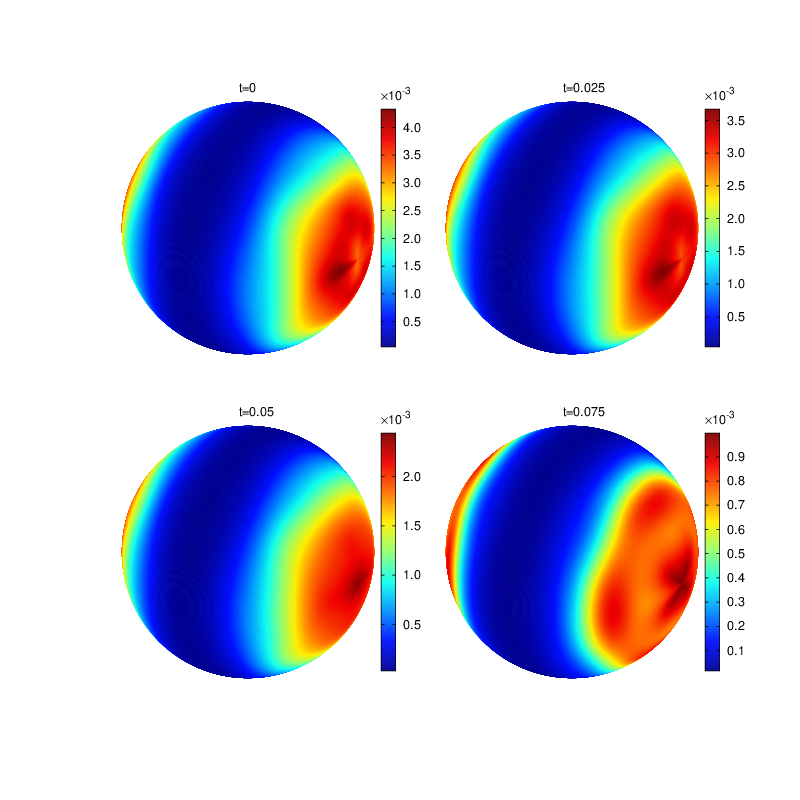
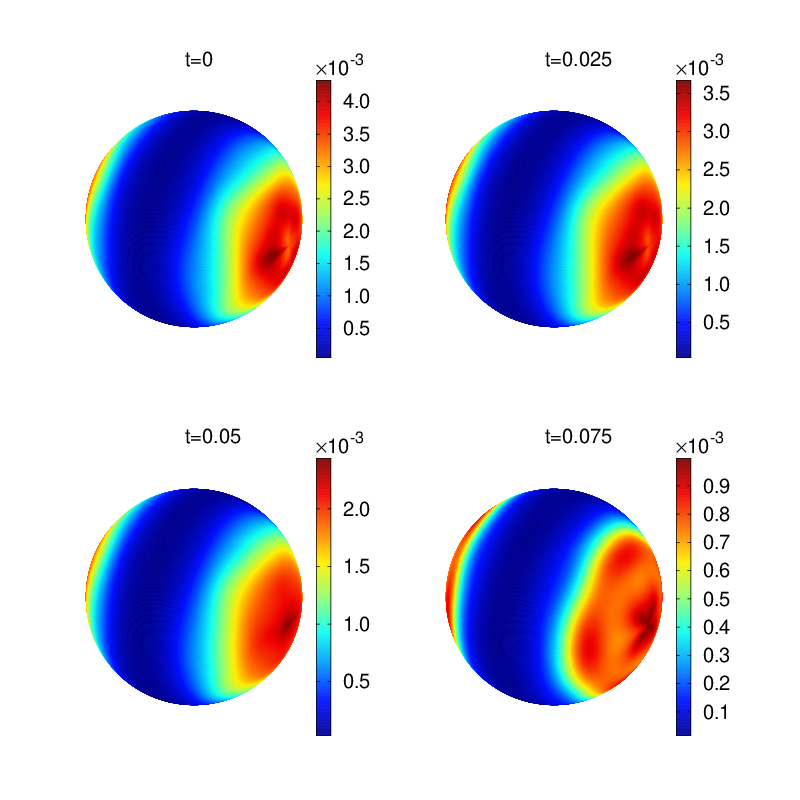
Changed size of labels in boundary plots and added energy density relative to Schwarzschild-AdS

diff --git a/3p1.tex b/3p1.tex
@@ -332,7 +332,7 @@ We compute this by first computing the quasi-local stress-energy tensor $^{(q)}T
 where $\Theta_{\alpha\beta}=-\gamma^\alpha_{\mu}\gamma^\beta_\nu\nabla_{(\alpha}S_{\beta)}$ is the extrinsic curvature of $\partial M_q$, $\gamma_{\mu\nu}=g_{\mu\nu}-S_\mu S_\nu$ is the induced metric on $\partial M_q$, $S^\mu$ is the spacelike, outward pointing unit vector normal to $\partial M_q$ and $G_{\mu\nu}$ is the Einstein tensor defined on $\partial M_q$. (Notice the different minus sign in the last term w.r.t. to  [CITE hep-th/9902121] ). We will be interested in the value of $^{(q)}T_{\mu\nu}$ for $q$ close to 0, i.e. near the boundary.
 Restricting to the 3 coordinates on the AdS boundary at $\rho=1$, i.e. $x^i=(t,\theta,\phi)$, this enables us to compute the boundary stress-energy tensor as
 \begin{equation}
-<T_{ij}>_{CFT}=\lim_{q\to0}\frac{1}{q}  \;^{(q)}T_{ij}.
+\langle T_{ij}\rangle_{CFT}=\lim_{q\to0}\frac{1}{q}  \;^{(q)}T_{ij}.
 \end{equation}
 
 From $^{(q)}T_{\mu\nu}$ we also compute the AdS mass as follows [CITE hep-th/9902121]. At each time $t$ of evolution, we take a spacelike hypersurface $\Sigma$ in $\partial M_q$, with induced 3-metric $\sigma_{\mu\nu}=\Sigma_{\mu\nu}-u_\mu u_\nu$, where $u^\mu$ is the future pointing unit vector normal to $\Sigma$ in $\partial M_q$, lapse $N$ and shift $N^i$. The AdS mass is
@@ -343,21 +343,21 @@ M_{AdS}=\lim_{q\to0}\int_\Sigma d\theta d\phi \sqrt{\sigma} N ( ^{(q)}T_{\mu\nu}
 We display these quantities in terms of the barred metric variables in spherical coordinates $\bar{g}_{\alpha\beta}$, which are defined similarly to the definition of Cartesian barred metric variables $\bar{g}_{\mu\nu}$ in Section~\ref{sec:numerical_scheme}: we consider the deviation from pure AdS in spherical coordinates, $h_{\alpha\beta}=g_{\alpha\beta}-\bar{g}_{\alpha\beta}$, stripped of as many factors of $(1-\rho^2)$ as necessary to make their fall off near the boundary linear in $q$. Notice that $\bar{g}_{\alpha\beta}$ and $\bar{g}_{\mu\nu}$ are not in general components of the same tensor, therefore the usual transformation between tensor components in different sets of coordinates cannot be applied. The correct transformation can be easily deduced from \eref{eq:sphbouncondh} and \eref{eq:carbouncondh}: $\bar{g}_{\rho\alpha}=\frac{1}{(1-\rho^2)}\frac{\partial x^\mu}{\partial \rho}\frac{\partial x^\nu}{\partial x^\alpha}\bar{g}_{\mu\nu}$ if $\alpha\neq\rho$, $\bar{g}_{\alpha\beta}=\frac{\partial x^\mu}{\partial x^\alpha}\frac{\partial x^\nu}{\partial x^\beta}\bar{g}_{\mu\nu}$ otherwise.
 In terms of the leading order coefficient of $\bar{g}_{\alpha\beta}$, we obtain
 \begin{eqnarray}
-<T_{tt}>_{CFT}&=&\frac{1}{16\pi} \biggl(2\bar{g}_{(1)\rho\rho}+3\bar{g}_{(1)\theta\theta}+3\frac{\bar{g}_{(1)\phi\phi}}{\sin^2\theta}\biggr) \nonumber \\
-<T_{t\theta}>_{CFT}&=&\frac{3}{16\pi}\bar{g}_{(1)t\theta} \nonumber \\
-<T_{t\phi}>_{CFT}&=&\frac{3}{16\pi}\bar{g}_{(1)t\phi} \nonumber \\
-<T_{\theta\theta}>_{CFT}&=&\frac{1}{16\pi} \biggl(3\bar{g}_{(1)tt}-2\bar{g}_{(1)\rho\rho}-3\frac{\bar{g}_{(1)\phi\phi}}{\sin^2\theta}\biggr) \nonumber \\
-<T_{\theta\phi}>_{CFT}&=&\frac{3}{16\pi}\bar{g}_{(1)\theta\phi} \nonumber \\
-<T_{\phi\phi}>_{CFT}&=&\frac{\sin^2\theta}{16\pi} (3\bar{g}_{(1)tt}-2\bar{g}_{(1)\rho\rho}-3\bar{g}_{(1)\theta\theta}) \nonumber \\
+\langle T_{tt}\rangle_{CFT}&=&\frac{1}{16\pi} \biggl(2\bar{g}_{(1)\rho\rho}+3\bar{g}_{(1)\theta\theta}+3\frac{\bar{g}_{(1)\phi\phi}}{\sin^2\theta}\biggr) \nonumber \\
+\langle T_{t\theta}\rangle_{CFT}&=&\frac{3}{16\pi}\bar{g}_{(1)t\theta} \nonumber \\
+\langle T_{t\phi}\rangle_{CFT}&=&\frac{3}{16\pi}\bar{g}_{(1)t\phi} \nonumber \\
+\langle T_{\theta\theta}\rangle_{CFT}&=&\frac{1}{16\pi} \biggl(3\bar{g}_{(1)tt}-2\bar{g}_{(1)\rho\rho}-3\frac{\bar{g}_{(1)\phi\phi}}{\sin^2\theta}\biggr) \nonumber \\
+\langle T_{\theta\phi}\rangle_{CFT}&=&\frac{3}{16\pi}\bar{g}_{(1)\theta\phi} \nonumber \\
+\langle T_{\phi\phi}\rangle_{CFT}&=&\frac{\sin^2\theta}{16\pi} (3\bar{g}_{(1)tt}-2\bar{g}_{(1)\rho\rho}-3\bar{g}_{(1)\theta\theta}) \nonumber \\
 M_{AdS}&=&\int_0^\pi d\theta \int_0^{2\pi}d\phi\frac{\sin\theta}{16\pi} \biggl(2\bar{g}_{(1)\rho\rho}+3\bar{g}_{(1)\theta\theta}+3\frac{\bar{g}_{(1)\phi\phi}}{\sin^2\theta}\biggr) \nonumber. \\
 \end{eqnarray}
 
-One useful quantity to compute is the trace of the stress-energy tensor, $<trT>_{CFT}=\gamma^{ij} <T_{ij}>_{CFT}$, where $\gamma=-dt^2+d\theta^2+\sin^2\theta d\phi^2$ is the conformal metric at the AdS boundary. We obtain
+One useful quantity to compute is the trace of the stress-energy tensor, $\langle trT\rangle_{CFT}=\gamma^{ij} \langle T_{ij}\rangle_{CFT}$, where $\gamma=-dt^2+d\theta^2+\sin^2\theta d\phi^2$ is the conformal metric at the AdS boundary. We obtain
 \begin{equation}
-<trT>_{CFT}=\frac{3}{8\pi}\biggl(\bar{g}_{(1)tt}-\bar{g}_{(1)\rho\rho}-\bar{g}_{(1)\theta\theta}-\frac{\bar{g}_{(1)\phi\phi}}{\sin^2\theta}\biggr)
+\langle trT\rangle_{CFT}=\frac{3}{8\pi}\biggl(\bar{g}_{(1)tt}-\bar{g}_{(1)\rho\rho}-\bar{g}_{(1)\theta\theta}-\frac{\bar{g}_{(1)\phi\phi}}{\sin^2\theta}\biggr)
 \end{equation}
-If we convert the spherical quantities into Cartesian ones (and we evaluate the expression at $\rho=1$), we see that $<trT>_{CFT}$ depends only on the factor $\bar{g}_{(1)tt}-\bar{g}_{(1)xx}-\bar{g}_{(1)yy}-\bar{g}_{(1)zz}$, as for $C_x,C_y,C_z$. This is an important sanity check: the validity of the generalized harmonic constraints analitycally ensures the vanishing of the trace of the boundary stress-energy tensor, as expected for the boundary CFT.
-Another important test that we performed is conservation of the analytic form of $<T_{ij}>_{CFT}$. The proof of this is conceptually straightforward but lenghty, so it is not presented here. We will instead show below that conservation is preserved numerically during evolution. Since this test is computationally expensive, we will do it only for 4 representative time steps.
+If we convert the spherical quantities into Cartesian ones (and we evaluate the expression at $\rho=1$), we see that $\langle trT\rangle_{CFT}$ depends only on the factor $\bar{g}_{(1)tt}-\bar{g}_{(1)xx}-\bar{g}_{(1)yy}-\bar{g}_{(1)zz}$, as for $C_x,C_y,C_z$. This is an important sanity check: the validity of the generalized harmonic constraints analitycally ensures the vanishing of the trace of the boundary stress-energy tensor, as expected for the boundary CFT.
+Another important test that we performed is conservation of the analytic form of $\langle T_{ij}\rangle_{CFT}$. The proof of this is conceptually straightforward but lenghty, so it is not presented here. We will instead show below that conservation is preserved numerically during evolution. Since this test is computationally expensive, we will do it only for 4 representative time steps.
 
 Since the AdS boundary generally does not lie on points of the Cartesian grid, to obtain the values of boundary quantities we use extrapolation from bulk point values (see~\ref{sec:extrapconvbdy} for the details on how this is implemented). In particular, we use first order extrapolation as this is the one that gives the best approximation for $<trT>_{CFT}$, as shown in Fig. [$L^2$ norm of trace for first, second and third order extrapolation].
 
@@ -370,6 +370,13 @@ Since the AdS boundary generally does not lie on points of the Cartesian grid, t
 
 \begin{figure}[h]
         \centering
+        \includegraphics[width=5.0in,clip=true]{plots/bdyplots/L3/bdyenergydensityrelativetoschw/sphereplots_bdyenergydensityrelativetoschw_L3_2by2.png}
+\parbox{5.0in}{\caption{Snapshots of energy density relative to Schwarschild-AdS with the initial AdS mass $M=0.4109047647294596$, i.e. $\frac{\epsilon}{\epsilon_{Schw-AdS}}-1$, at the boundary.
+        }\label{fig:snapshotsenergydensity}}
+\end{figure}
+
+\begin{figure}[h]
+        \centering
         \includegraphics[width=5.0in,clip=true]{plots/bdyplots/L3/bdyanisotropy/sphereplots_bdyanisotropy_L3_2by2.png}
 \parbox{5.0in}{\caption{Snapshots of anisotropy at the boundary.
         }\label{fig:snapshotsbdyphi}}
@@ -377,7 +384,7 @@ Since the AdS boundary generally does not lie on points of the Cartesian grid, t
 
 \begin{figure}[h]
         \centering
-        \includegraphics[width=5.0in,clip=true]{plots/bdyplots/L3/bdyphi/sphereplots_bdyphi_L3_2by2.png}
+        \includegraphics[width=7.0in,clip=true]{plots/bdyplots/L3/bdyphi/sphereplots_bdyphi_L3_2by2.png}
 \parbox{5.0in}{\caption{Snapshots of scalar field at the boundary.
         }\label{fig:snapshotsenergydensity}}
 \end{figure}
@@ -458,6 +465,8 @@ C_\alpha \right) \nonumber \\
 \frac{1}{d-2} {T^\alpha}_\alpha g_{\mu \nu} \right).
 \end{eqnarray}
 
+\section{Regularized Metric Variables in Cartesian and Spherical coordinates}\label{sec:regmetvarcarsph}
+
 \section{Convergence Tests in the Bulk}\label{sec:convbulk}
 
 Here we display a pair of numerical tests that demonstrate convergence trends for a representative simulation with no mesh refinement.
@@ -482,7 +491,7 @@ Again, with second-order accurate finite difference stencils and with a factor o
 
 \section{Extrapolation Technique and Convergence at AdS Boundary}\label{sec:extrapconvbdy}
 
-As explained in Section~\ref{sec:results}, given a Cartesian grid with spacing $\Delta$, since the AdS boundary generally does not lie on points of the grid, we can only obtain the approximated value $f^{bdy}_{\Delta}$ of any boundary quantity $f$ through extrapolation, using the numerical values of $f$ on grid points near the boundary, which we denote by $f_\Delta$. In this Section  we describe how grid points are chosen for extrapolation and we show convergence by computing the factor \eref{eq:qconv} for $f^{bdy}_{\Delta}$ at boundary points.
+As explained in Section~\ref{sec:results}, given a Cartesian grid with spacing $\Delta$, since the AdS boundary generally does not lie on points of the grid, we can only obtain the approximated value $f^{bdy}_{\Delta}$ of any boundary quantity $f$ through extrapolation, using the numerical values of $f$ on grid points near the boundary, which we denote by $f_\Delta$. In this Section we describe how grid points are chosen for extrapolation and we show convergence by computing the factor \eref{eq:qconv} for $f^{bdy}_{\Delta}$ at boundary points, which is a consequence of bulk convergence (see ~\ref{sec:convbulk}) at the chosen points.
 
 If we wish to test convergence of $f^{bdy}_{\Delta}$ in the continuum limit $\Delta\rightarrow0$, there are two crucial criteria for the choice of grid points that are \emph{suitable} for extrapolation. We will now explain them with the help of Fig.~\ref{fig:lego_circle}, which shows an example of the result of the application of these criteria in the first quadrant of a $z=const.$ surface of the grid for first order extrapolation.
 \begin{enumerate}
@@ -509,7 +518,10 @@ Once suitable points have been found (the green dots in Fig.~\ref{fig:lego_circl
 
 CONVERGENCE PLOTS
 
-Finally, notice that the convergence test \eref{eq:qires} cannot be performed at the boundary for functions with true value 0 (such as $<trT>_{CFT}$), because their extrapolated value is not just the term linear in $\Delta^2$ but it also includes the extrapolation error $c_{extr}$.
+This extrapolation scheme is validated by Figure [CONVERGENCE], which shows second-order convergence at the boundary for CHOSEN FUNCTION with this extrapolation scheme, as expected from having second-order convergence in the bulk (see ~\ref{sec:convbulk}) at all points used for extrapolation.
+
+Notice, from the discussion in (i), that we do not expect to converge to the true value $f(p_{bdy})$ of a boundary quantity in the continuum limit $\Delta\rightarrow0$, but rather to $f(p_{bdy})+c_{extr}(p_{bdy},p_1,p_2,\dots,p_{n+1})$.
+For this reason, the convergence test \eref{eq:qires} cannot be performed at the boundary for functions with true value 0 (such as $\langle trT \rangle_{CFT}$), because their extrapolated value is not just the term linear in $\Delta^2$ but it also includes the extrapolation error $c_{extr}$.
 
 
 
